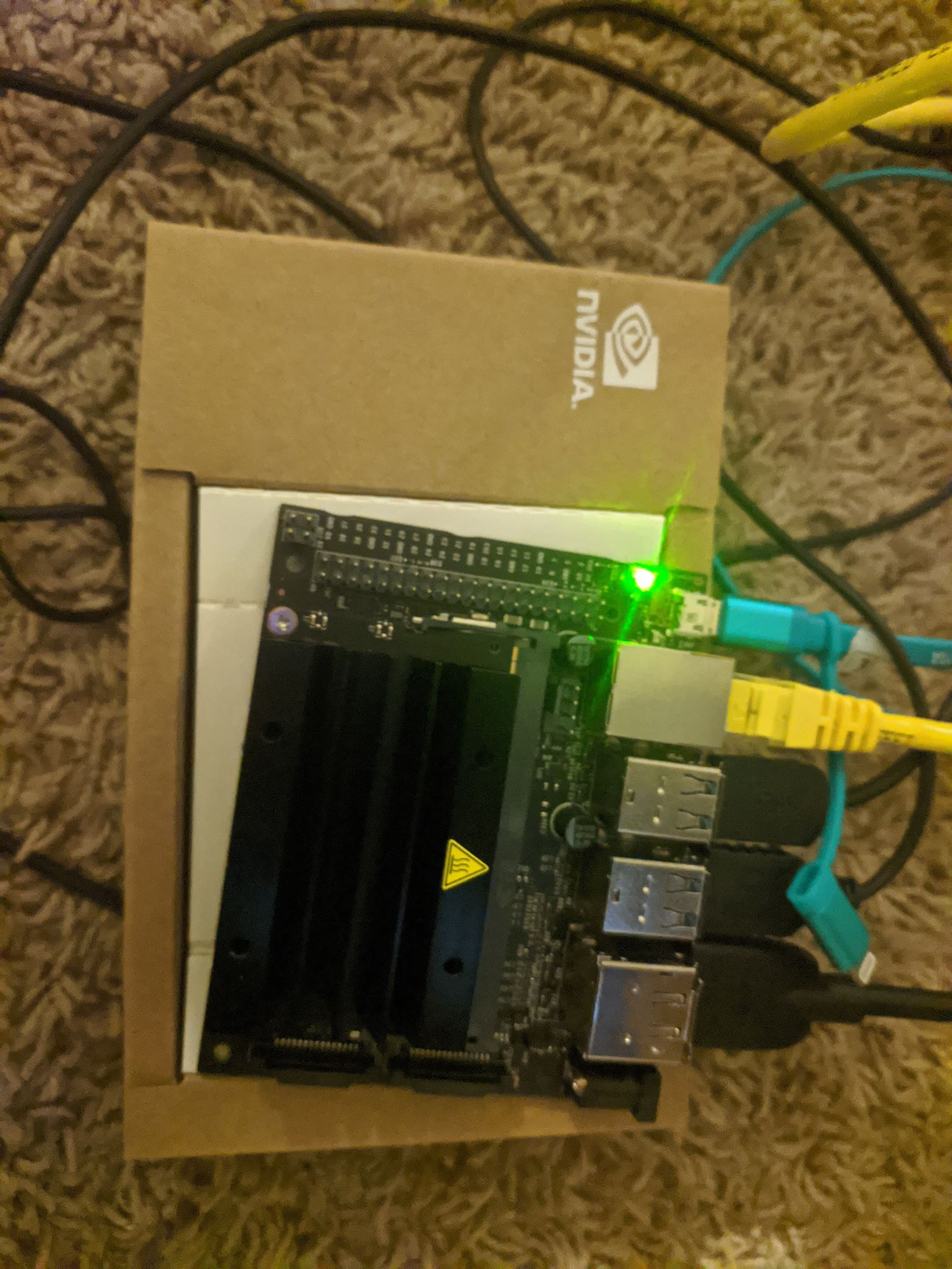
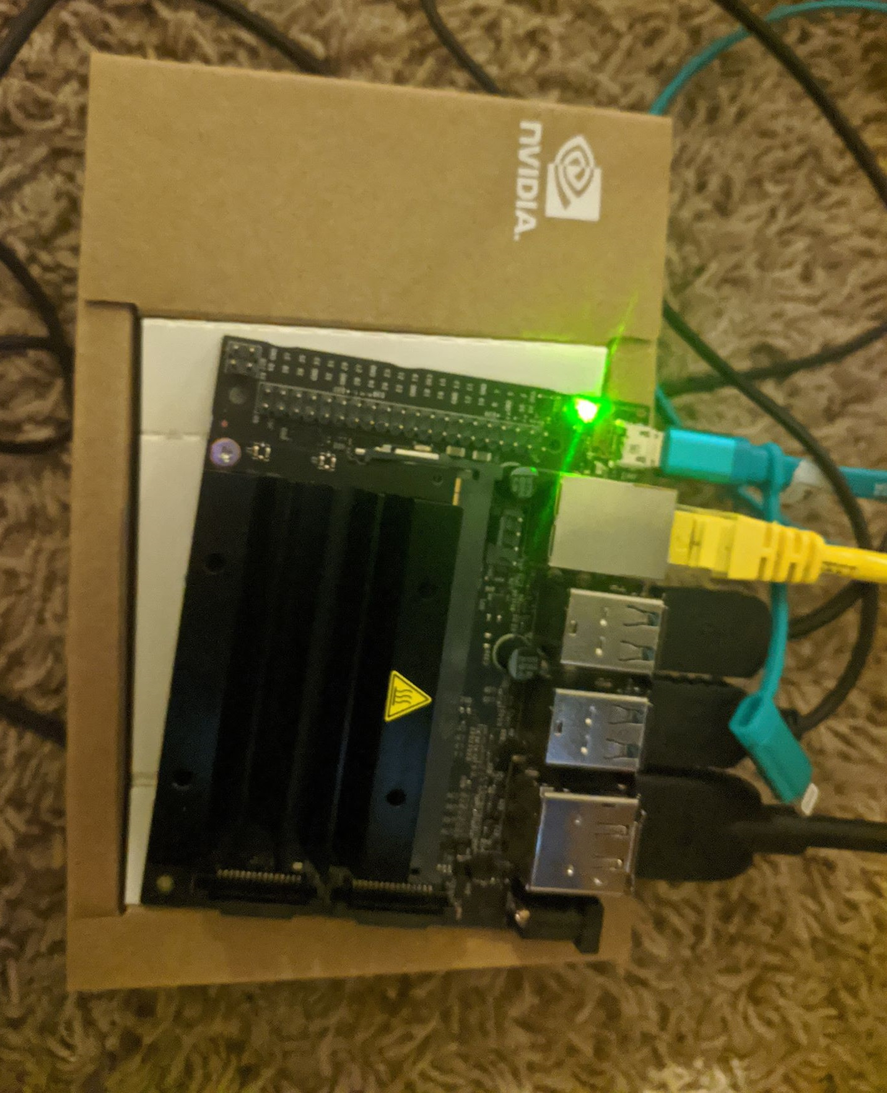
Adding yugioh projects

diff --git a/index.html b/index.html
@@ -692,6 +692,11 @@
                 Image recognition on one of the cards
                 <img data-lazy="images/yudd_8.jpg" data-srcset="images/yudd_8.jpg 650w, images/yudd_8.jpg 960w" data-sizes="100vw">
               </div>
+               <div>
+                <br>
+                Jetson Nano used for this project (picture at beginning of testing)
+                <img data-lazy="images/yudd_0.jpg" data-srcset="images/yudd_0.jpg 650w, images/yudd_0.jpg 960w" data-sizes="100vw">
+              </div>
               <div>
                 <br><br><br><br><br><br>
                 When dueling with someone far away, you are able to view and read descriptions of cards on the field
